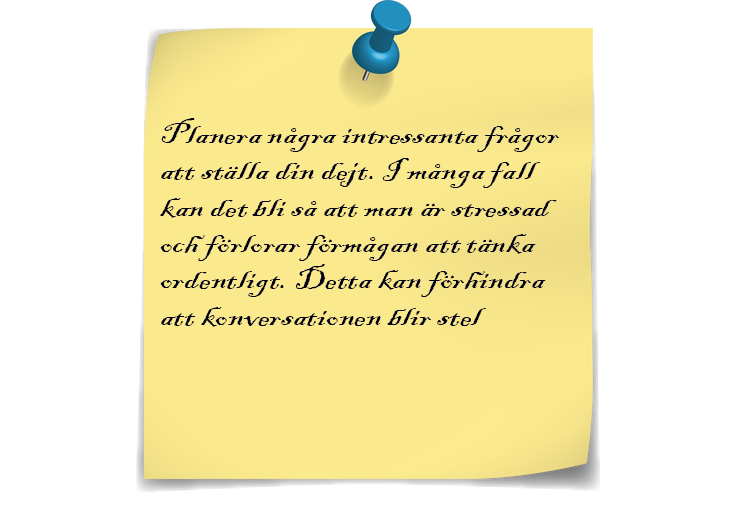
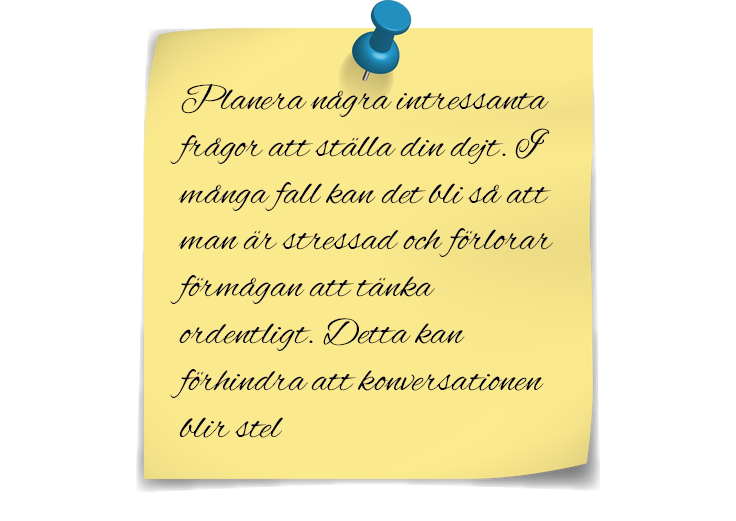
Tips sida

Changed region(s): [[0.2188, 0.1536, 0.75, 0.6756], [0.2188, 0.7063, 0.75, 0.7678], [0.25, 0.7985, 0.375, 0.8599]]

diff --git a/tips.html b/tips.html
@@ -26,13 +26,13 @@
        </ul>
        <img id="headerlogga"src="bilder/dejtlifyloggan2liten.png" alt="logga">
     </header>
-    <div id="notesDiv">
+   <div id="notesDiv">
 
-            <img src="bilder/pngeggg.png" alt="Bild med dejtingtips. Planera några intressanta frågor att ställa din dejt. I många fall kan det bli så att man är stressad och förlorar förmågan att tänka ordentligt. Detta kan förhindra att konversationen blir stel.">
-            <img src="bilder/pngegg2.png" alt="Bild med dejtningtips. Att vara sen till er första träff är en dålig start. Om du blir sen, meddela personen du ska möta. Om det istället är den andra personen som är sen borde du vänta för att se om han/hon dyker upp. Oförutsägbara saker kan alltid inträffa.">
-            <img src="bilder/pngegg3.png" alt="Bild med dejtingtips. Kom ihåg detaljerna. Det är ofta de små sakerna som betyder mest för oss. Genom att minnas något enkelt såsom din dejts favoritchoklad, dejtens syskons namn eller favoritkaffe kommer att få dig att hamna på plus">
-            <img src="bilder/pngegg5.png" alt="Bild med dejtingtips. Våga vara dig och visa vem du är från första stund. Du är grum, fantastisk och bäst. Och Dejten kommer bli så mycket roligare om du bjuder på dig själv.">
-            <img src="bilder/pngegg4.png" alt="Bild med dejtingtips. Klä dig efter tillfälle. Detta betyder inte att en måste klä sig som inför den finaste av galor. Klädseln sätter ribban för kvällen"> 
-            <img src="bilder/pngegg1.png" alt="Bild med dejtingtips. Även om du drömmer om att ert första möte ska bli som en scen i en romantisk Hollywoodfilm så är det bra att inte ge sig själv falska förhoppningar. Var realistisk och se det som en ny erfarenhet, oavsett hur dejten går.">
+            <img src="bilder/lapp1.png" alt="Bild med dejtingtips. Planera några intressanta frågor att ställa din dejt. I många fall kan det bli så att man är stressad och förlorar förmågan att tänka ordentligt. Detta kan förhindra att konversationen blir stel.">
+            <img src="bilder/lapp2.png" alt="Bild med dejtningtips. Att vara sen till er första träff är en dålig start. Om du blir sen, meddela personen du ska möta. Om det istället är den andra personen som är sen borde du vänta för att se om han/hon dyker upp. Oförutsägbara saker kan alltid inträffa.">
+            <img src="bilder/lapp3.png" alt="Bild med dejtingtips. Kom ihåg detaljerna. Det är ofta de små sakerna som betyder mest för oss. Genom att minnas något enkelt såsom din dejts favoritchoklad, dejtens syskons namn eller favoritkaffe kommer att få dig att hamna på plus">
+            <img src="bilder/lapp4.png" alt="Bild med dejtingtips. Våga vara dig och visa vem du är från första stund. Du är grum, fantastisk och bäst. Och Dejten kommer bli så mycket roligare om du bjuder på dig själv.">
+            <img src="bilder/lapp5.png" alt="Bild med dejtingtips. Klä dig efter tillfälle. Detta betyder inte att en måste klä sig som inför den finaste av galor. Klädseln sätter ribban för kvällen"> 
+            <img src="bilder/lapp6.png" alt="Bild med dejtingtips. Även om du drömmer om att ert första möte ska bli som en scen i en romantisk Hollywoodfilm så är det bra att inte ge sig själv falska förhoppningar. Var realistisk och se det som en ny erfarenhet, oavsett hur dejten går.">
     </div>
-</body>
+

diff --git a/css/style.css b/css/style.css
@@ -251,7 +251,7 @@ a {
 }
 
 
-
+/* Tetxten i tips sidan*/
 
 
 
@@ -436,12 +436,12 @@ a {
 
 #notesDiv img {
     height: 35vh;
-    width: 50vh;
+    width: 55vh;
     padding-top: 50px;
 }
 
 #notesDiv img:hover{
-    transform: scale(1.25);
+    transform: scale(1.3);
     transition: transform 1s;
 }
 
